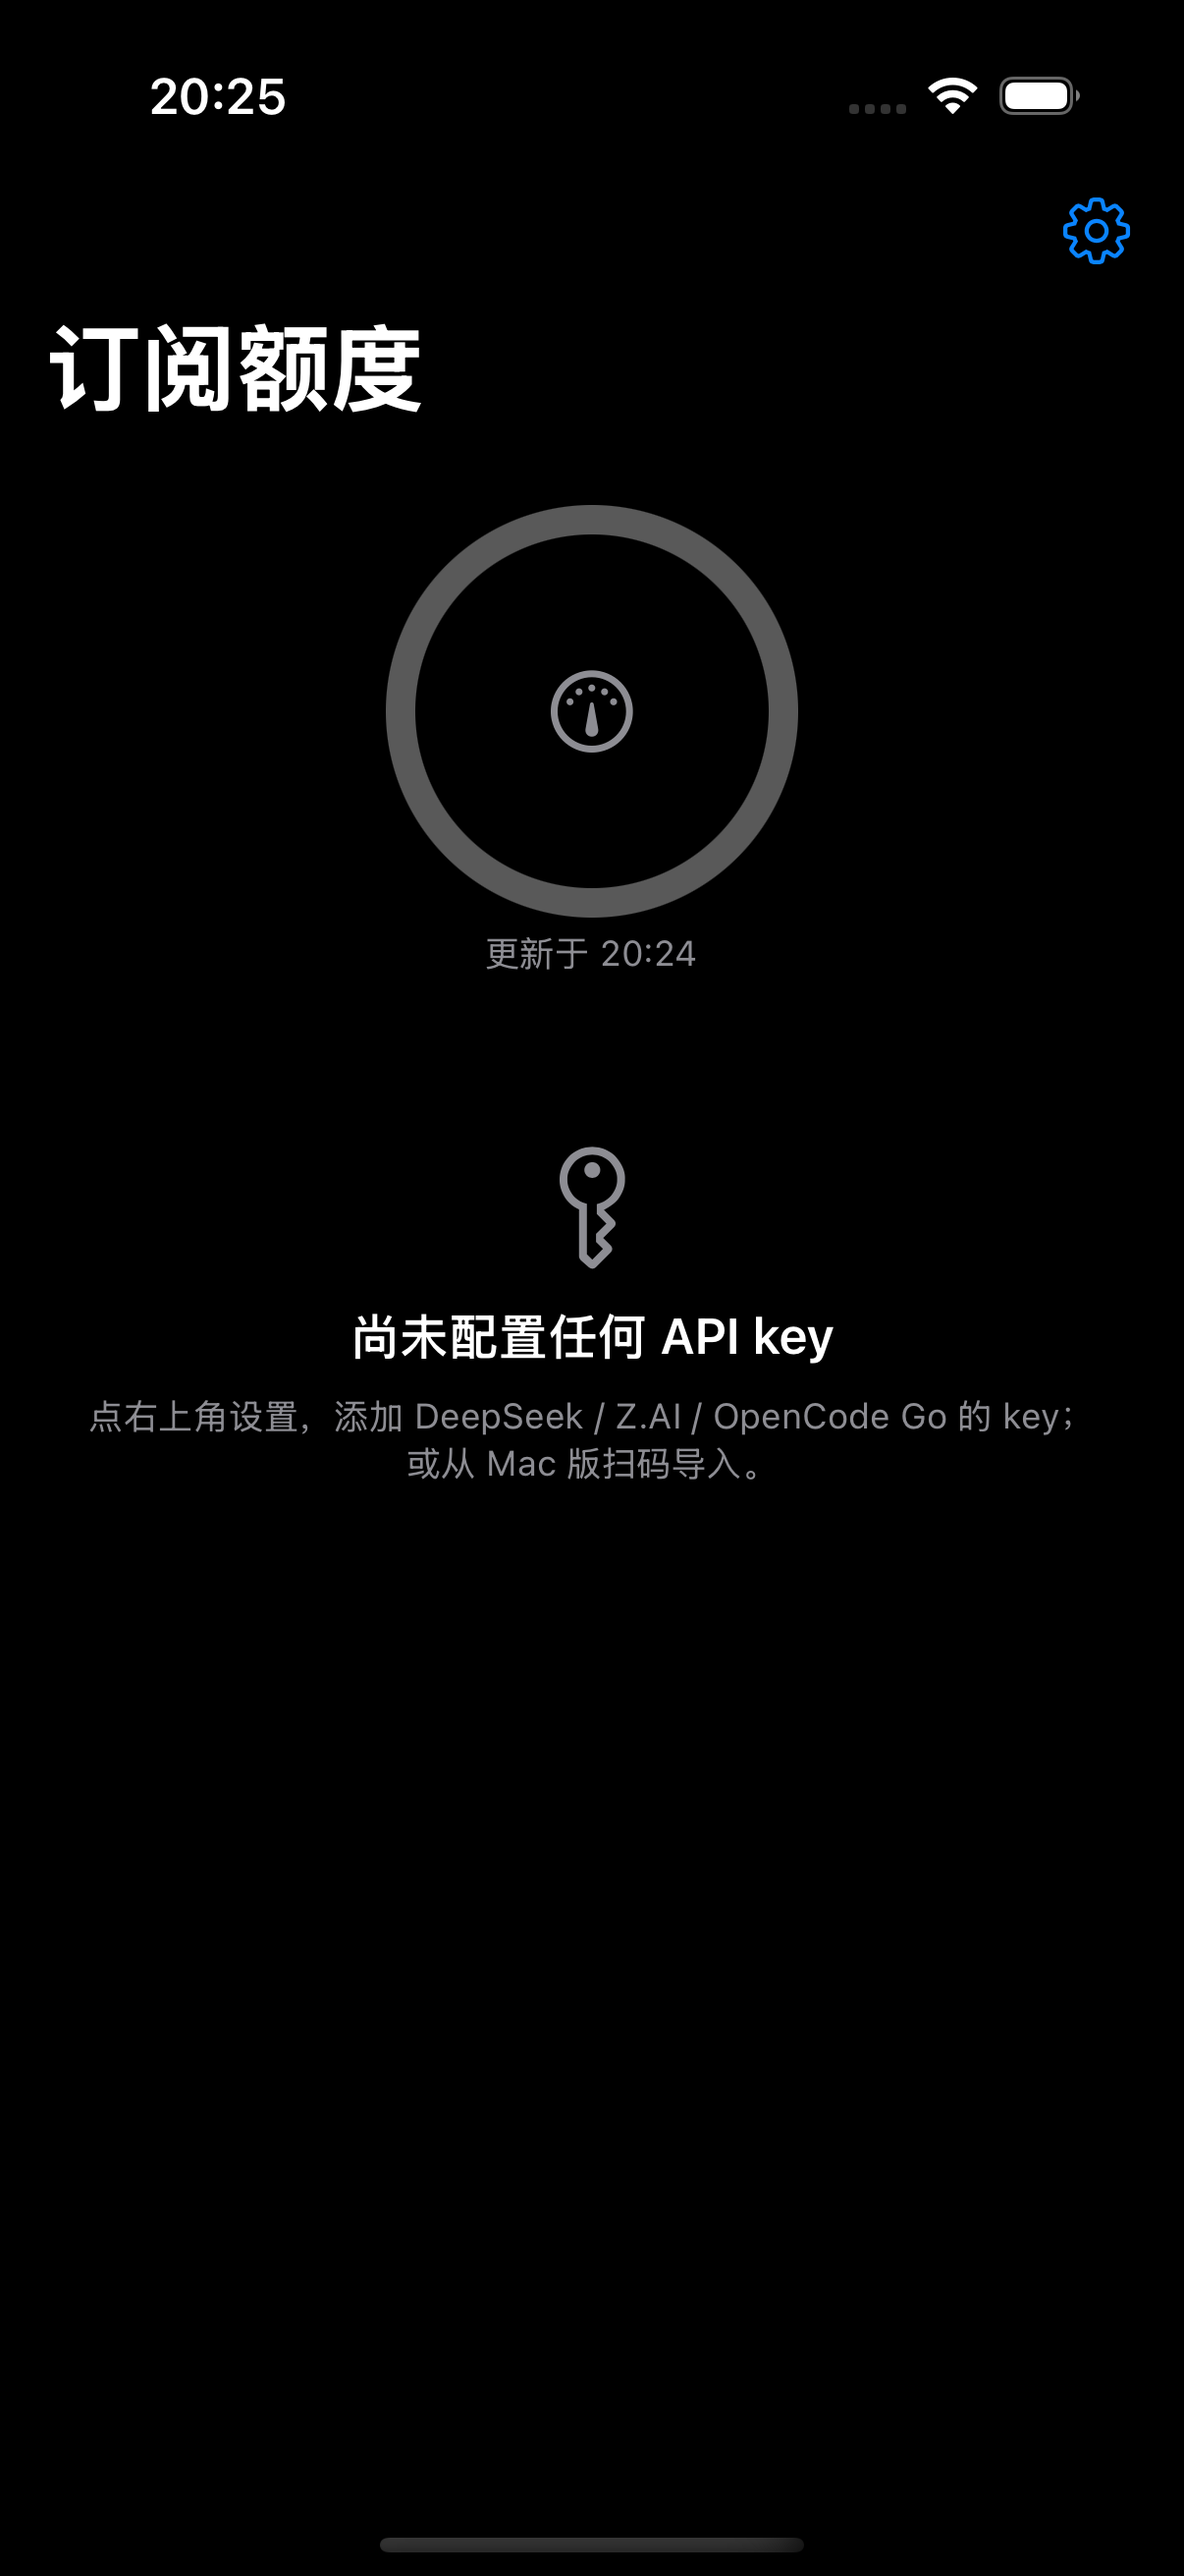
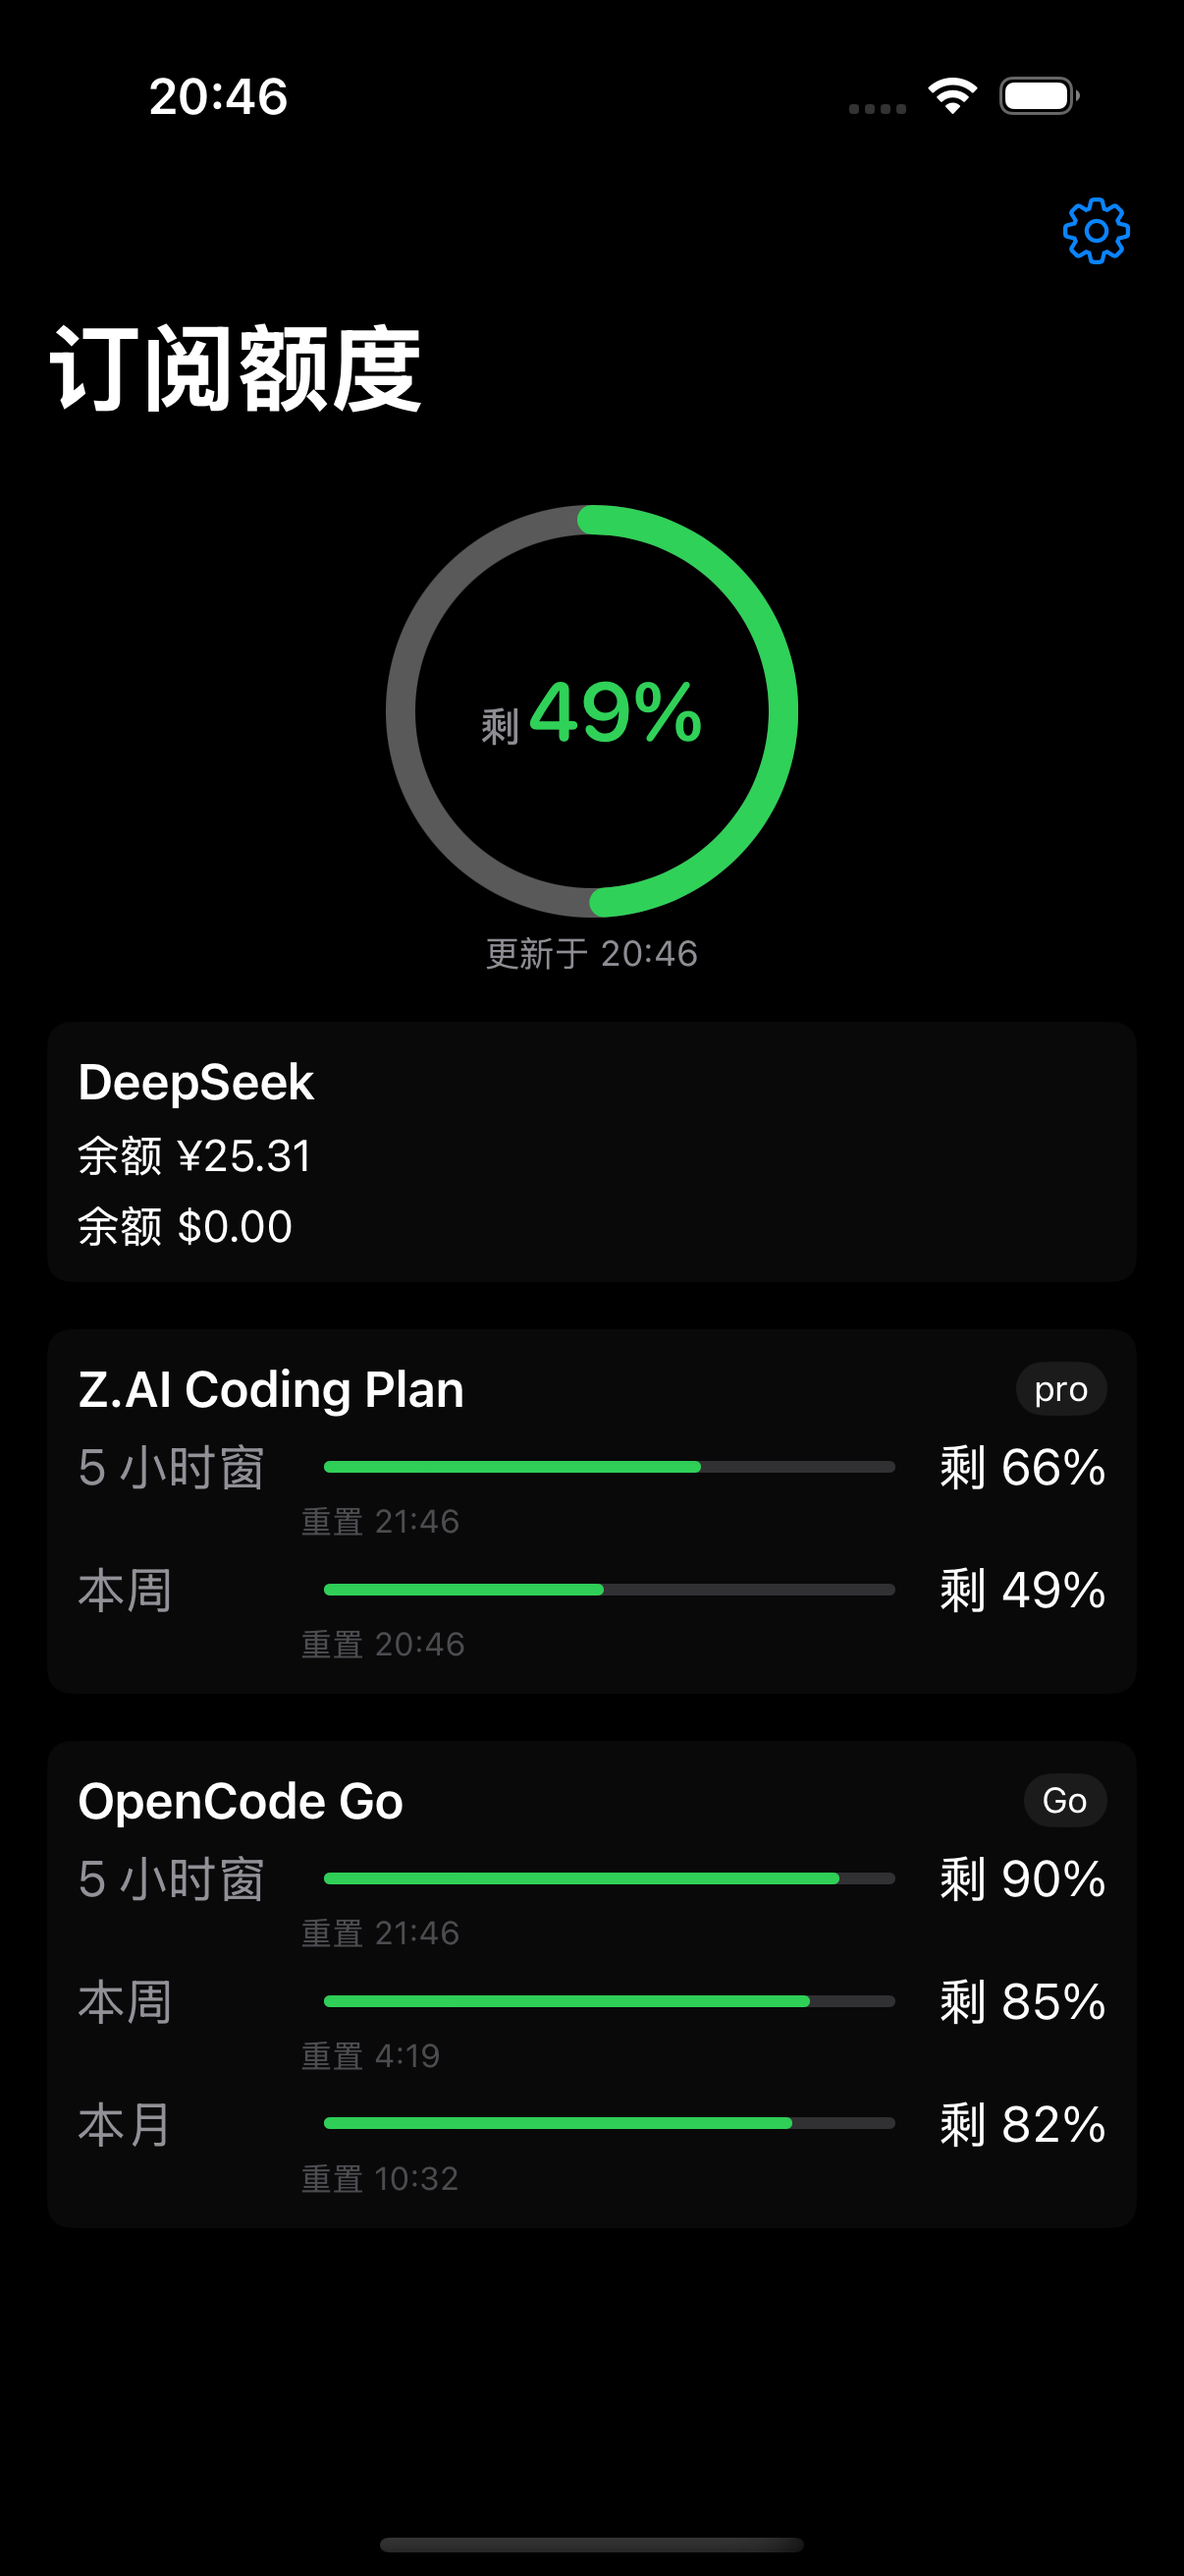
窗口行标签/数值宽度微调避免 iOS 换行；用量条剩余语义与配色统一

diff --git a/Sources/TokenUsage/Views/ProviderCard.swift b/Sources/TokenUsage/Views/ProviderCard.swift
@@ -57,20 +57,20 @@ struct WindowRow: View {
             HStack(spacing: 8) {
                 Text(window.label)
                     .foregroundStyle(.secondary)
-                    .frame(width: 64, alignment: .leading)
+                    .frame(width: 76, alignment: .leading)
                 // 电池语义：条长 = 剩余额度，与环形图标一致（绿=充足，随消耗缩短变橙/红）
                 ProgressView(value: min(max(window.remainingPercent, 0), 100), total: 100)
                     .progressViewStyle(.linear)
                     .tint(tint)
                 Text("剩 \(window.remainingPercent.compactPercentText)%")
                     .monospacedDigit()
-                    .frame(width: 56, alignment: .trailing)
+                    .frame(width: 64, alignment: .trailing)
             }
             if let resetsAt = window.resetsAt {
                 Text("重置 \(resetsAt.formatted(date: .omitted, time: .shortened))")
                     .font(.caption2)
                     .foregroundStyle(.tertiary)
-                    .padding(.leading, 72)
+                    .padding(.leading, 76)
             }
         }
     }

diff --git a/Sources/TokenUsage/AppModel.swift b/Sources/TokenUsage/AppModel.swift
@@ -81,10 +81,12 @@ final class AppModel {
     /// 每次刷新完成后回调（StatusBarController 用它更新菜单栏标题/图标）。
     var didRefresh: (() -> Void)?
 
+    private let isDemoMode = ProcessInfo.processInfo.arguments.contains("--demo-data")
+
     init() {
         KeychainStore.migrateLegacyItems()
-        if ProcessInfo.processInfo.arguments.contains("--demo-data") {
-            // 文档截图用演示数据（README 截图），不触发网络与定时刷新
+        if isDemoMode {
+            // README 截图用演示模式：固定三家数据，不联网、不清空
             applyDemoData()
         } else {
             reloadProviders()
@@ -153,6 +155,12 @@ final class AppModel {
     }
 
     func refreshAll() async {
+        if isDemoMode {
+            // 演示模式：不联网，仅保留演示快照
+            lastRefreshAt = Date()
+            didRefresh?()
+            return
+        }
         reloadProviders()
         guard !isRefreshing else { return }
         isRefreshing = true
